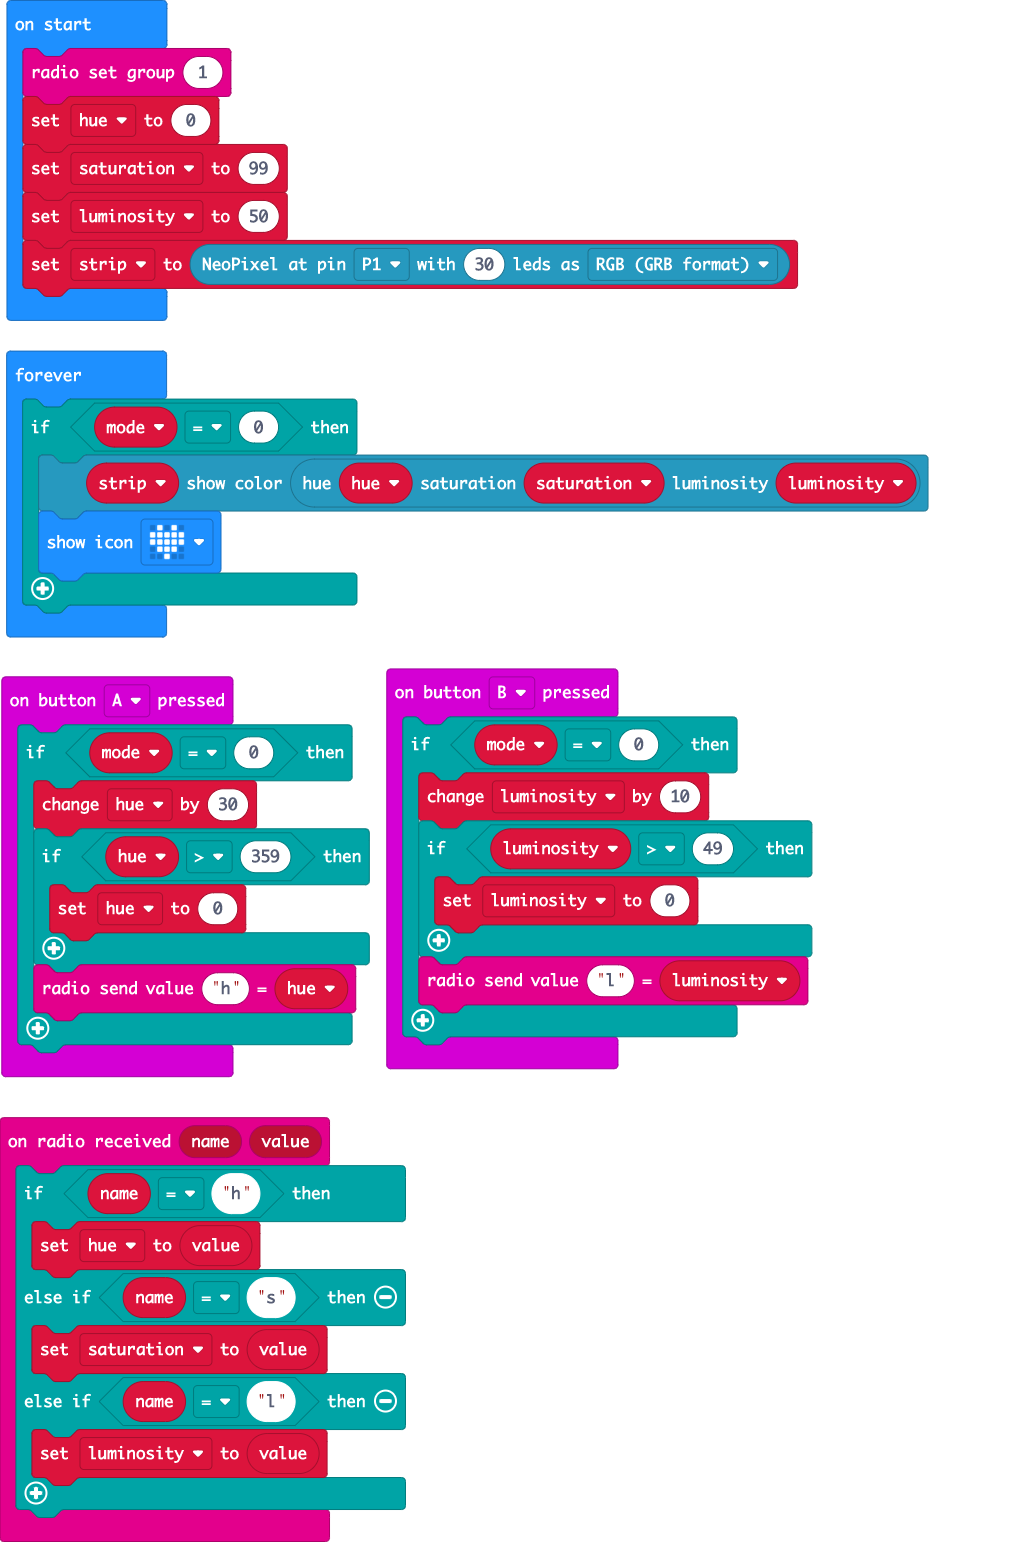
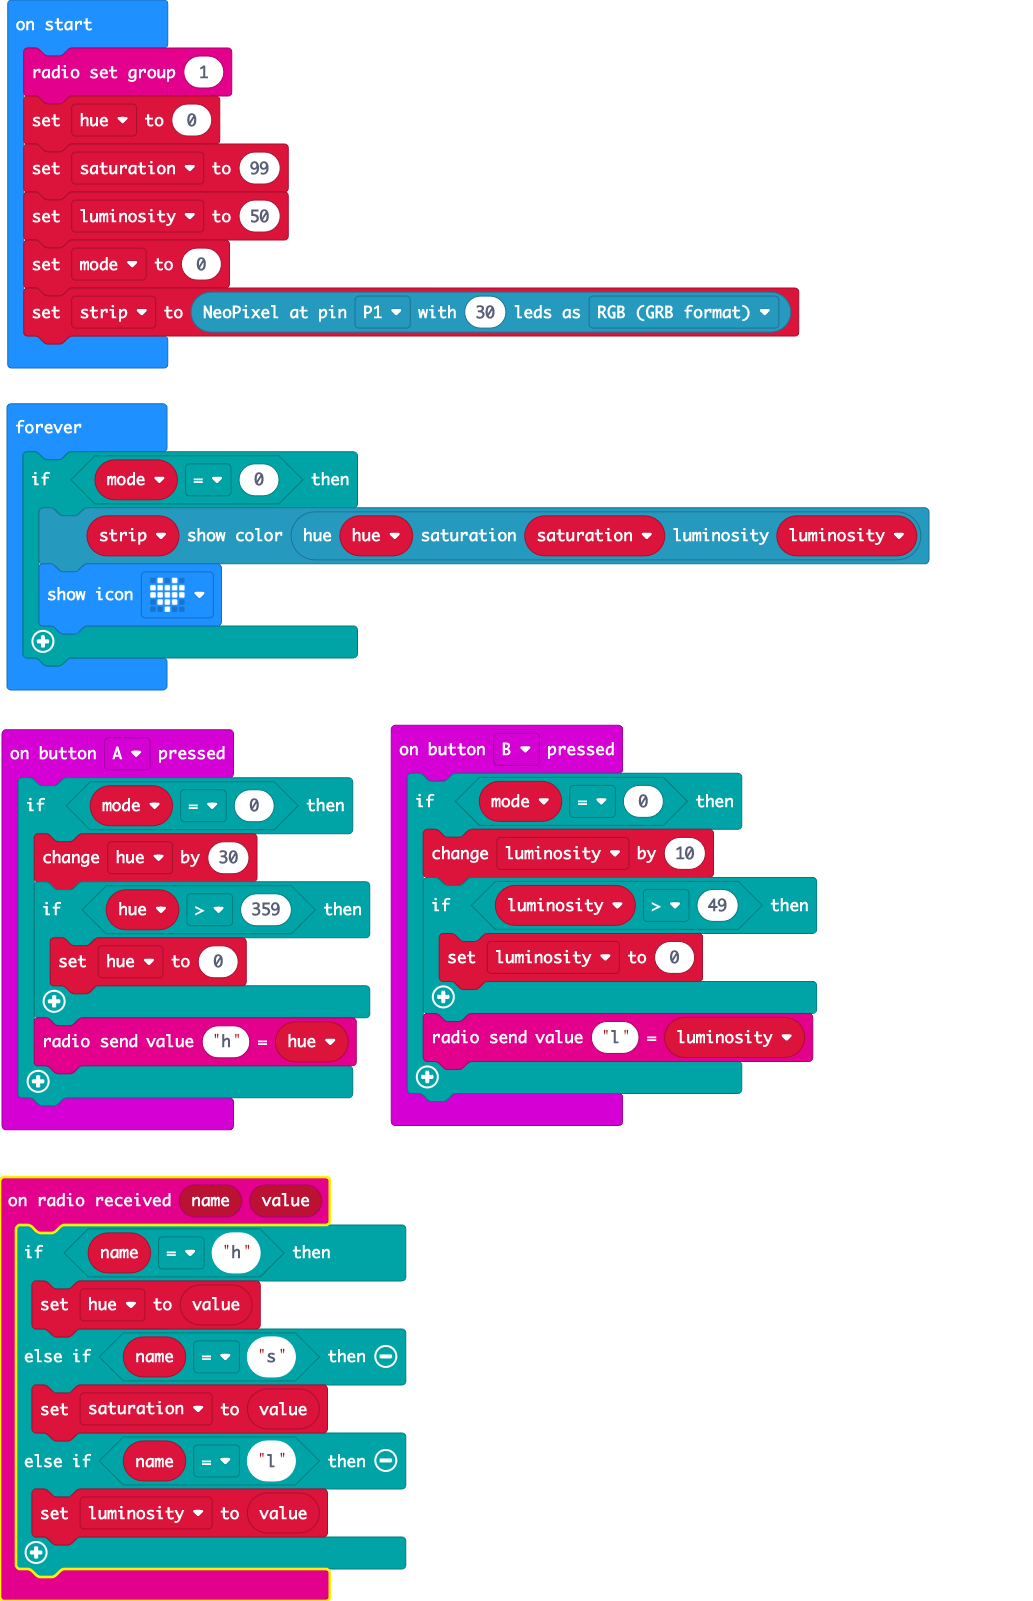
Update main.blocks, main.ts

Changed region(s): [[0.0, 0.0, 0.8992, 1.0]]

diff --git a/main.ts b/main.ts
@@ -33,6 +33,7 @@ radio.setGroup(1)
 hue = 0
 saturation = 99
 luminosity = 50
+mode = 0
 let strip = neopixel.create(DigitalPin.P1, 30, NeoPixelMode.RGB)
 basic.forever(function () {
     if (mode == 0) {
